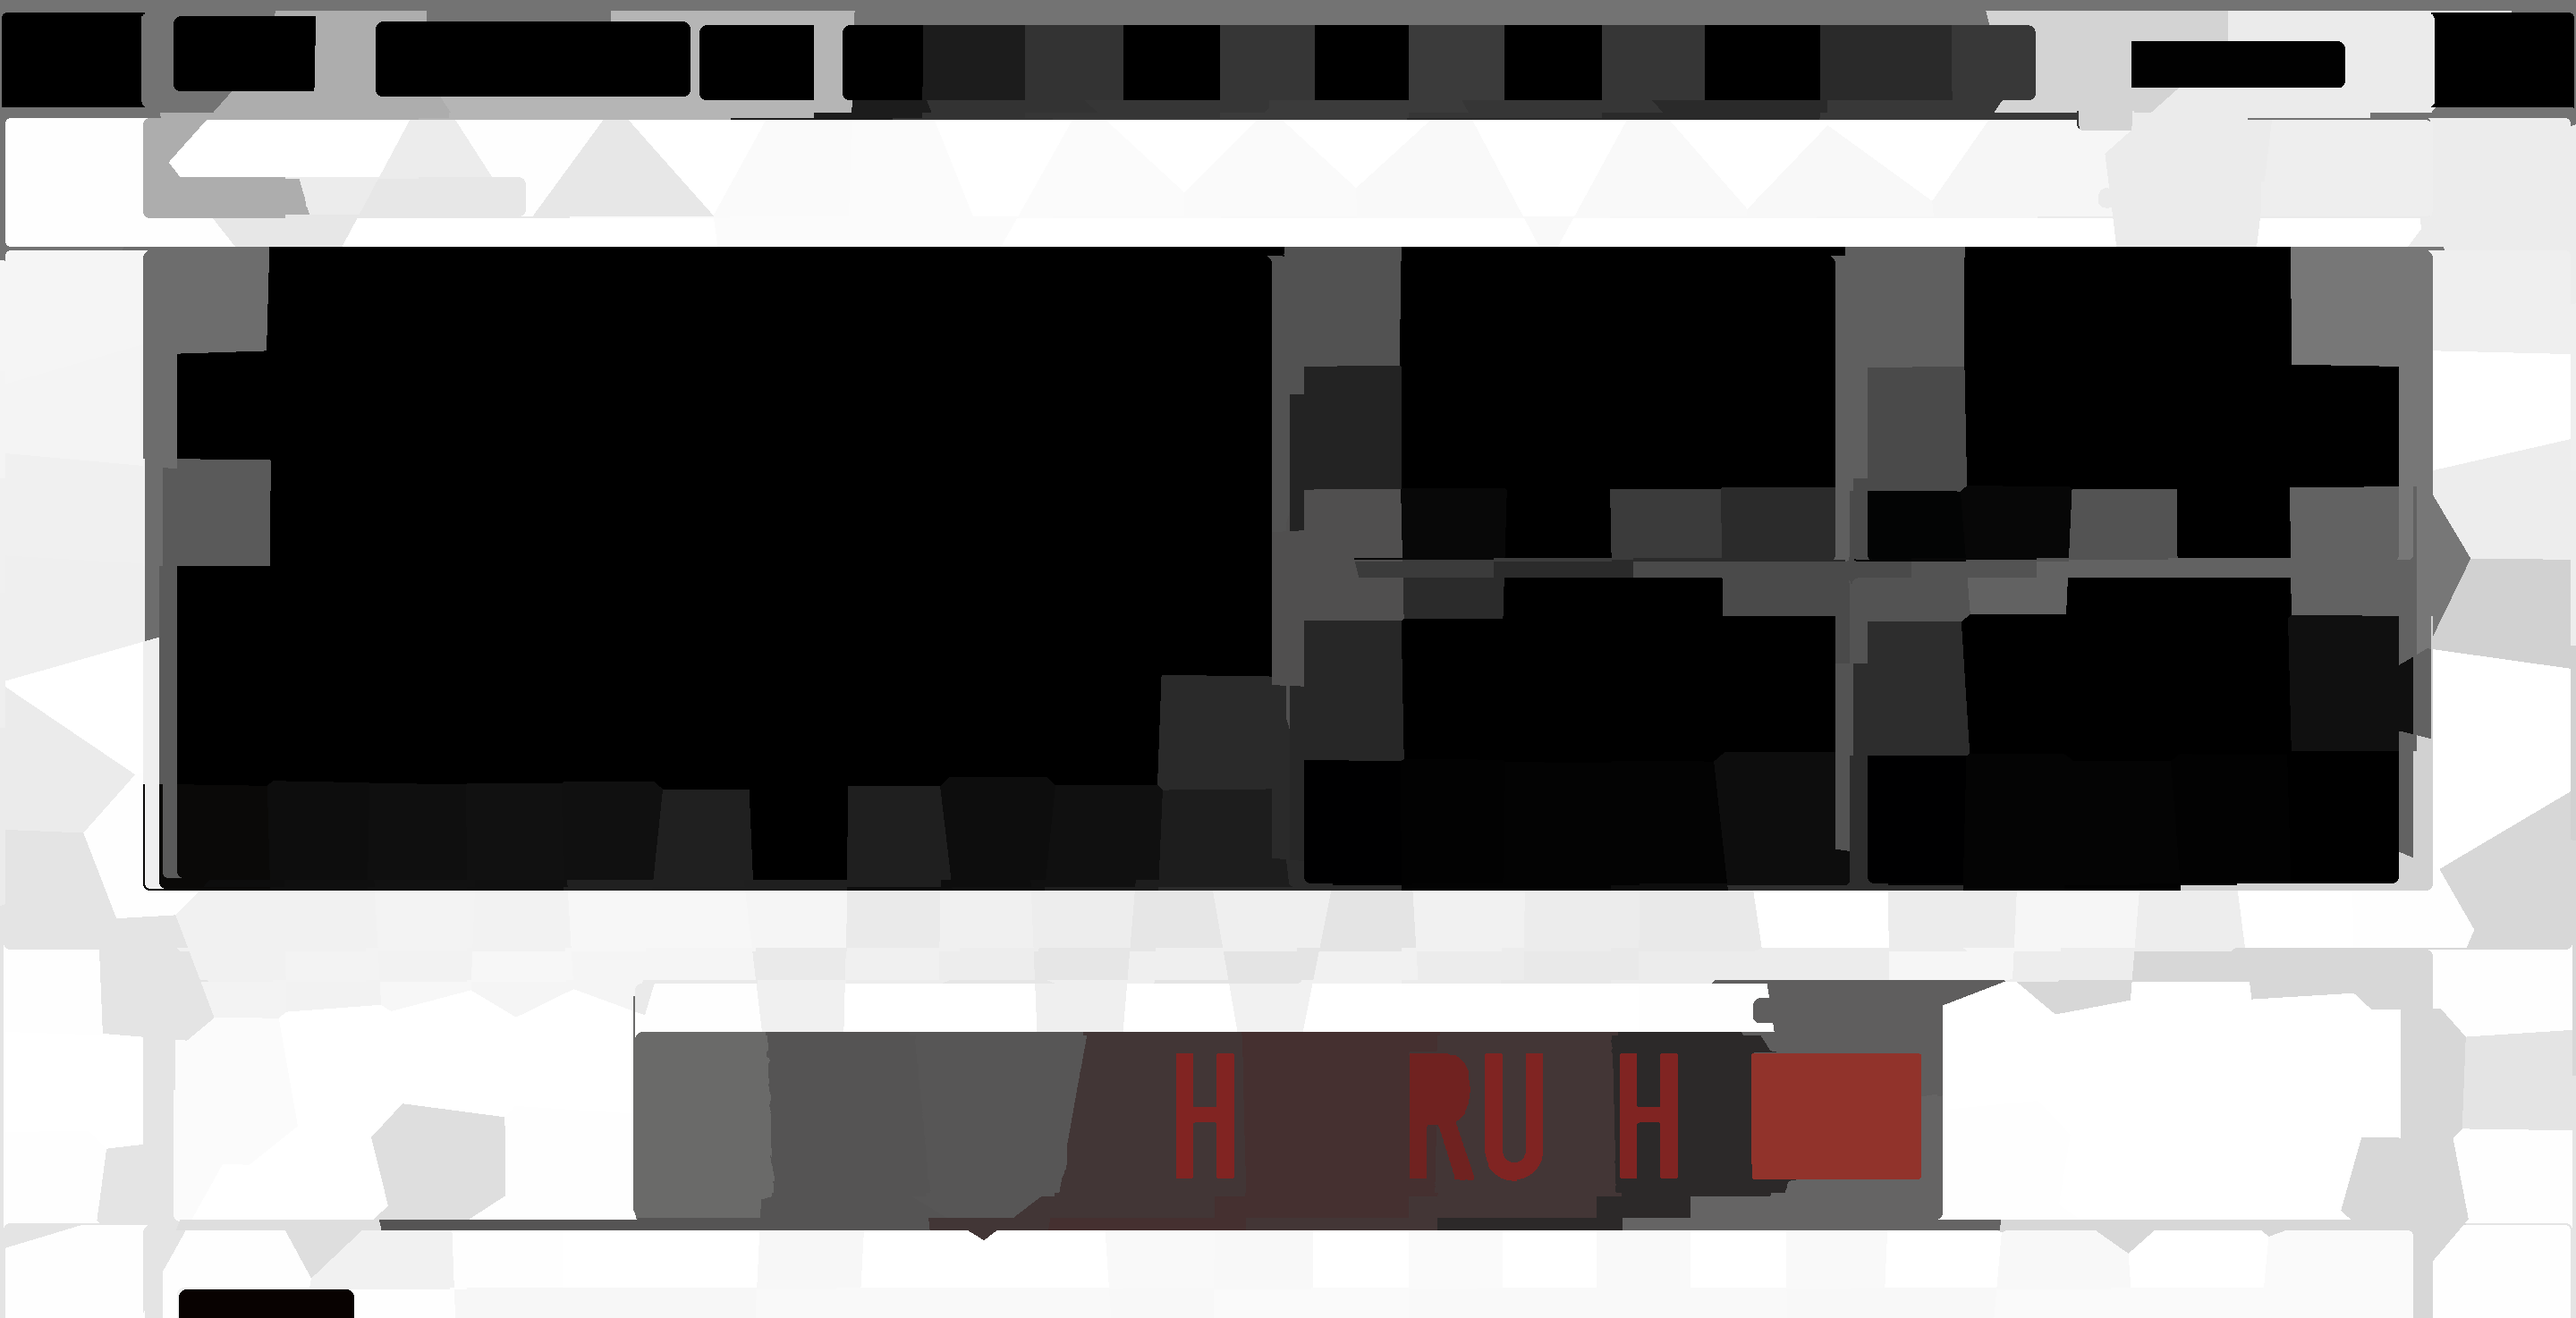
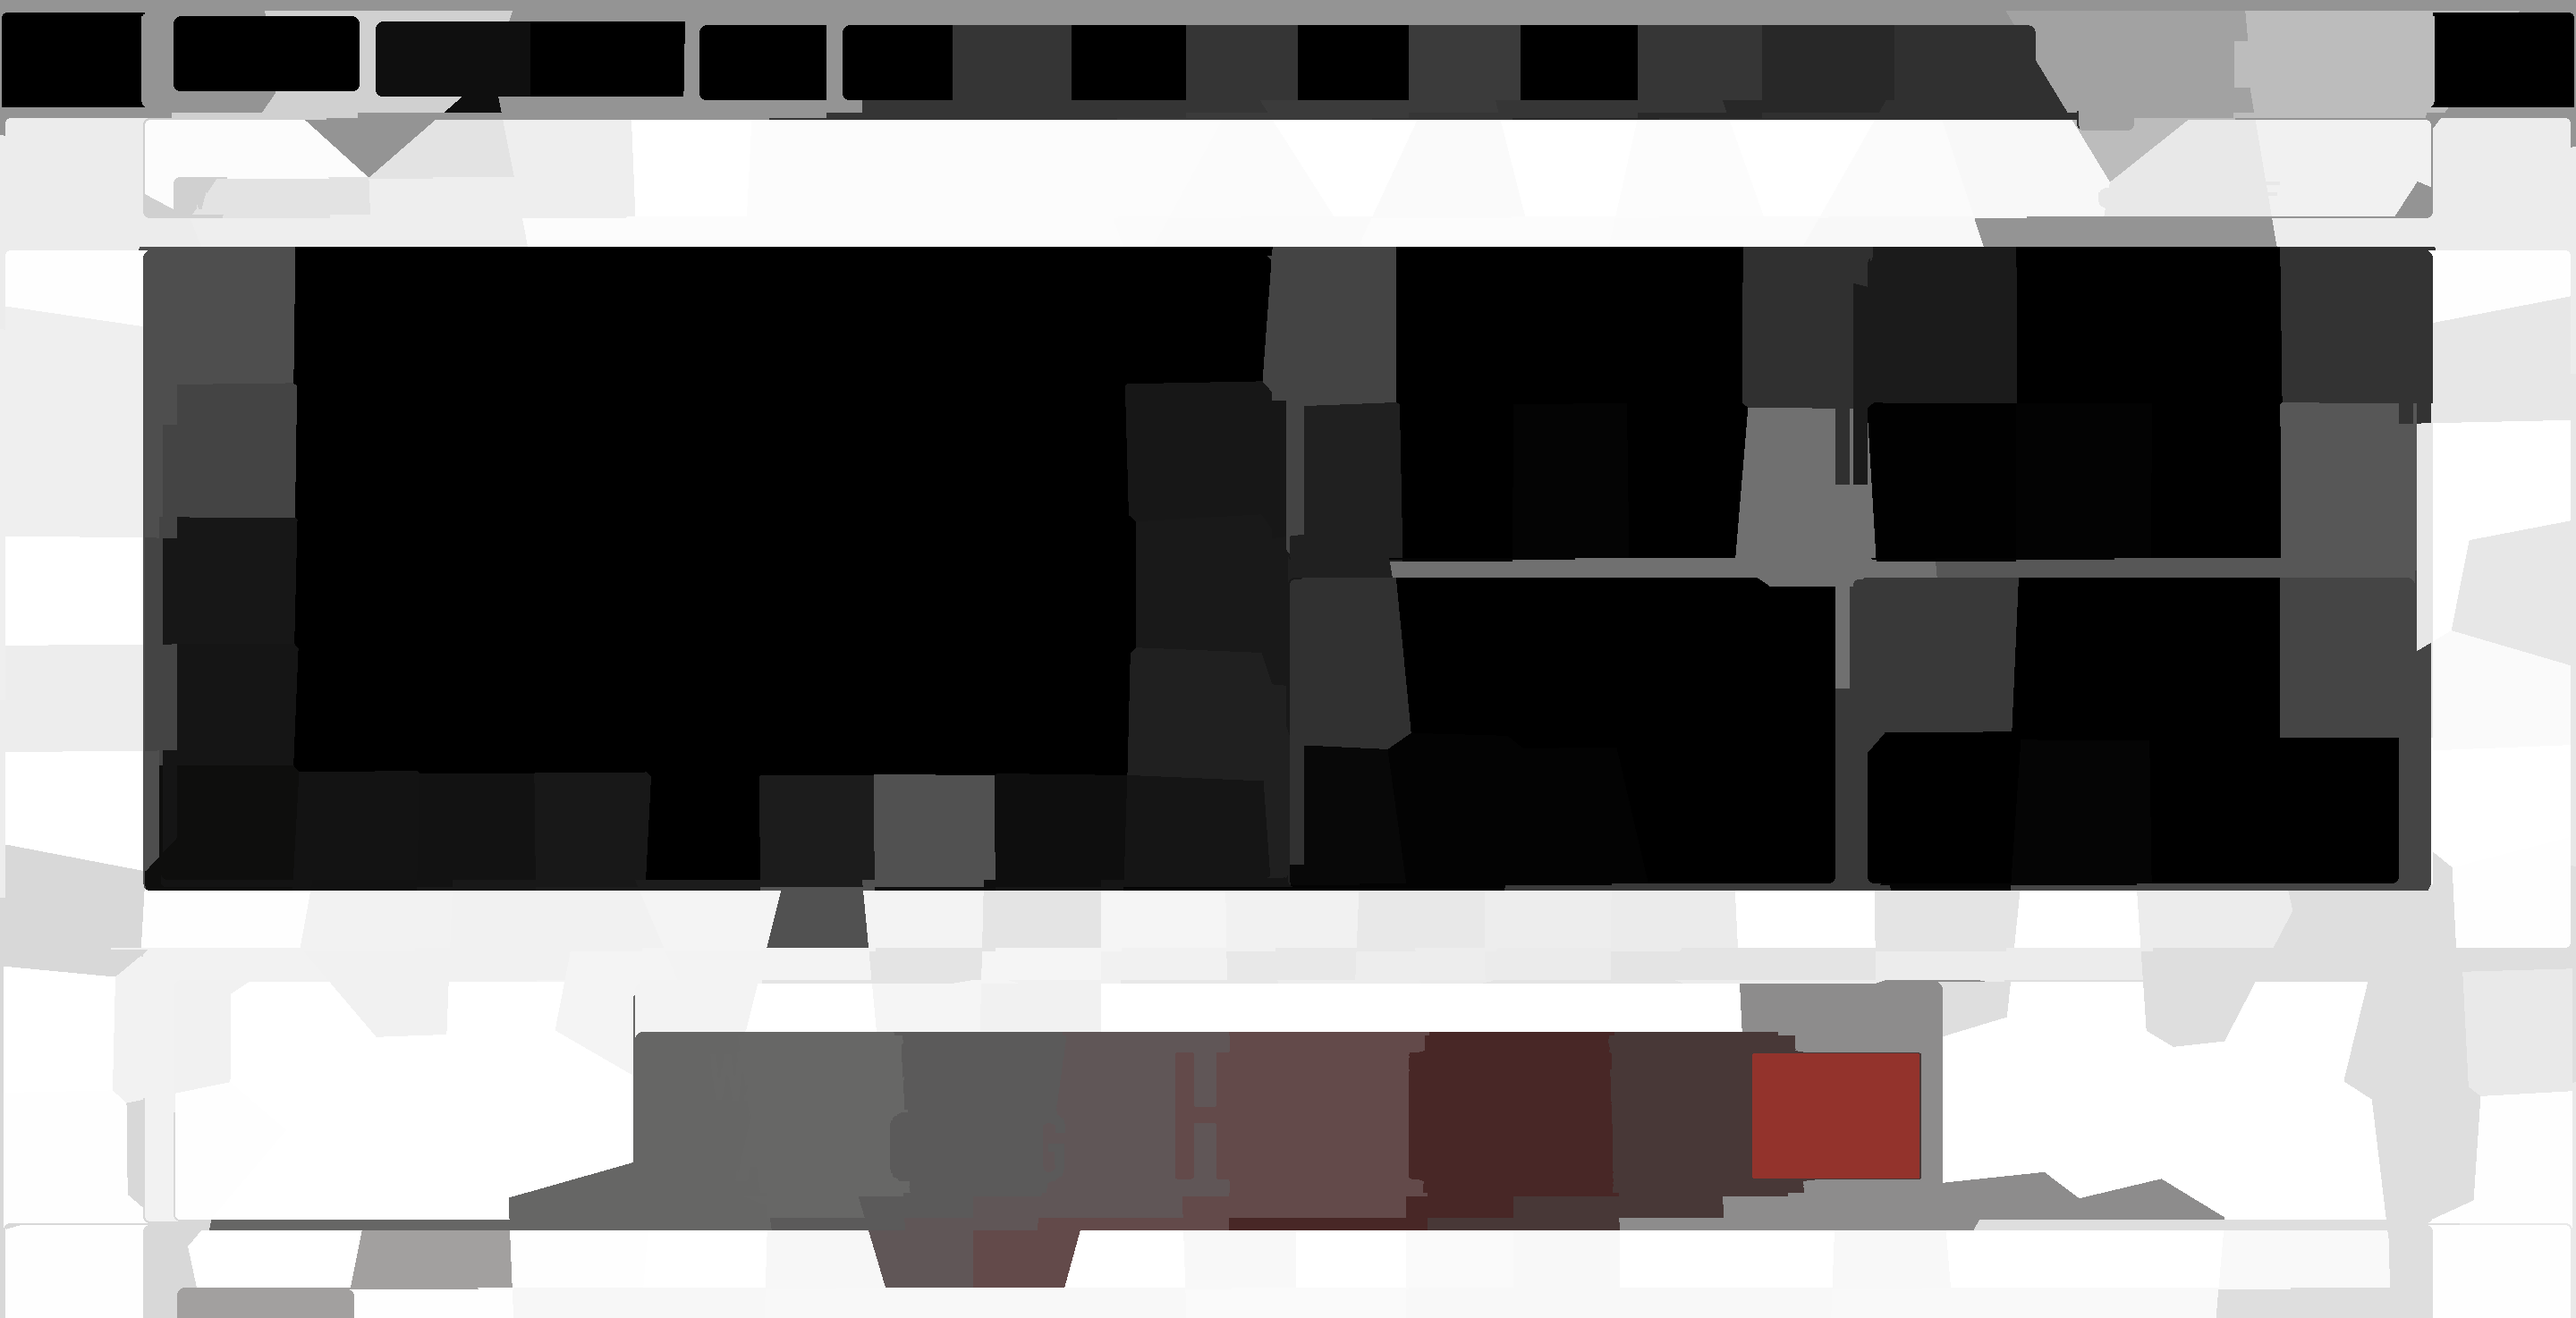
grayscaling pixelized image

diff --git a/screenshot.py b/screenshot.py
@@ -1,32 +1,3 @@
-# import unittest
-# from selenium import webdriver
-# from selenium.webdriver.chrome.options import Options
- 
- 
- 
-# class MyScreenshot(unittest.TestCase):
- 
-#     def setUp(self):
-#         self.driver = webdriver.Chrome()
-#     def test_takescreenshot(self):
-#         driver = self.driver
-#         driver.maximize_window()
-#         chrome_options = Options()
-#         chrome_options.add_extension('/Users/Kallirroi/Desktop/tangiWEB')
-#         driver = webdriver.Chrome(chrome_options=chrome_options)
-#         driver.get('http://www.nytimes.com/')
- 
-#         # driver.save_screenshot('/in/')
- 
- 
-#     def tearDown(self):
-#         self.driver.quit()
- 
-
-# if __name__ == '__main__':
-#     unittest.main()
-
-
 import os
 from selenium import webdriver
 from selenium.webdriver.chrome.options import Options

diff --git a/RAG.py b/RAG.py
@@ -19,7 +19,7 @@ for fileName in expression:
 	imageName = os.path.splitext(fileName)[0]
 	print('RAG running on %s' % imageName)
 	img = io.imread(path+fileName)
-	labels = segmentation.slic(img, compactness=10, n_segments=24 * 16)
+	labels = segmentation.slic(img, compactness=10, n_segments=24 * 12)
 	out = color.label2rgb(labels, img, kind='avg')
-	plt.imsave('out/'+imageName+'.png', out)
+	plt.imsave('out/'+imageName+'.png', out, cmap='gray')
 	print('RAG finished on %s' % imageName)

diff --git a/README.md b/README.md
@@ -3,7 +3,7 @@
 The scripts do the following
 
 
-- Programmatically enable the chrome extension in the `webdriver.Chrome()` instance. You need to provide the path to the .crx bundle of the extension like so: `chrome_options.add_extension('path/to/.crx')`
+- Programmatically enable the chrome extension in the `webdriver.Chrome()` instance. You need to provide the path to the .crx bundle of the extension like so: `chrome_options.add_extension('path/to/.crx')`. You also need to have downloaded the [ChromeDriver](https://sites.google.com/a/chromium.org/chromedriver/downloads).
 - Take screenshot of web page using Selenium (Python) while the extension is enabled. You can set the url in `screenshot.py`. 
 - Save that image to `in/` directory
 - Use `skimage` and `color.label2rgb` to average the saved screenshots in a 24 * 16 matrix
